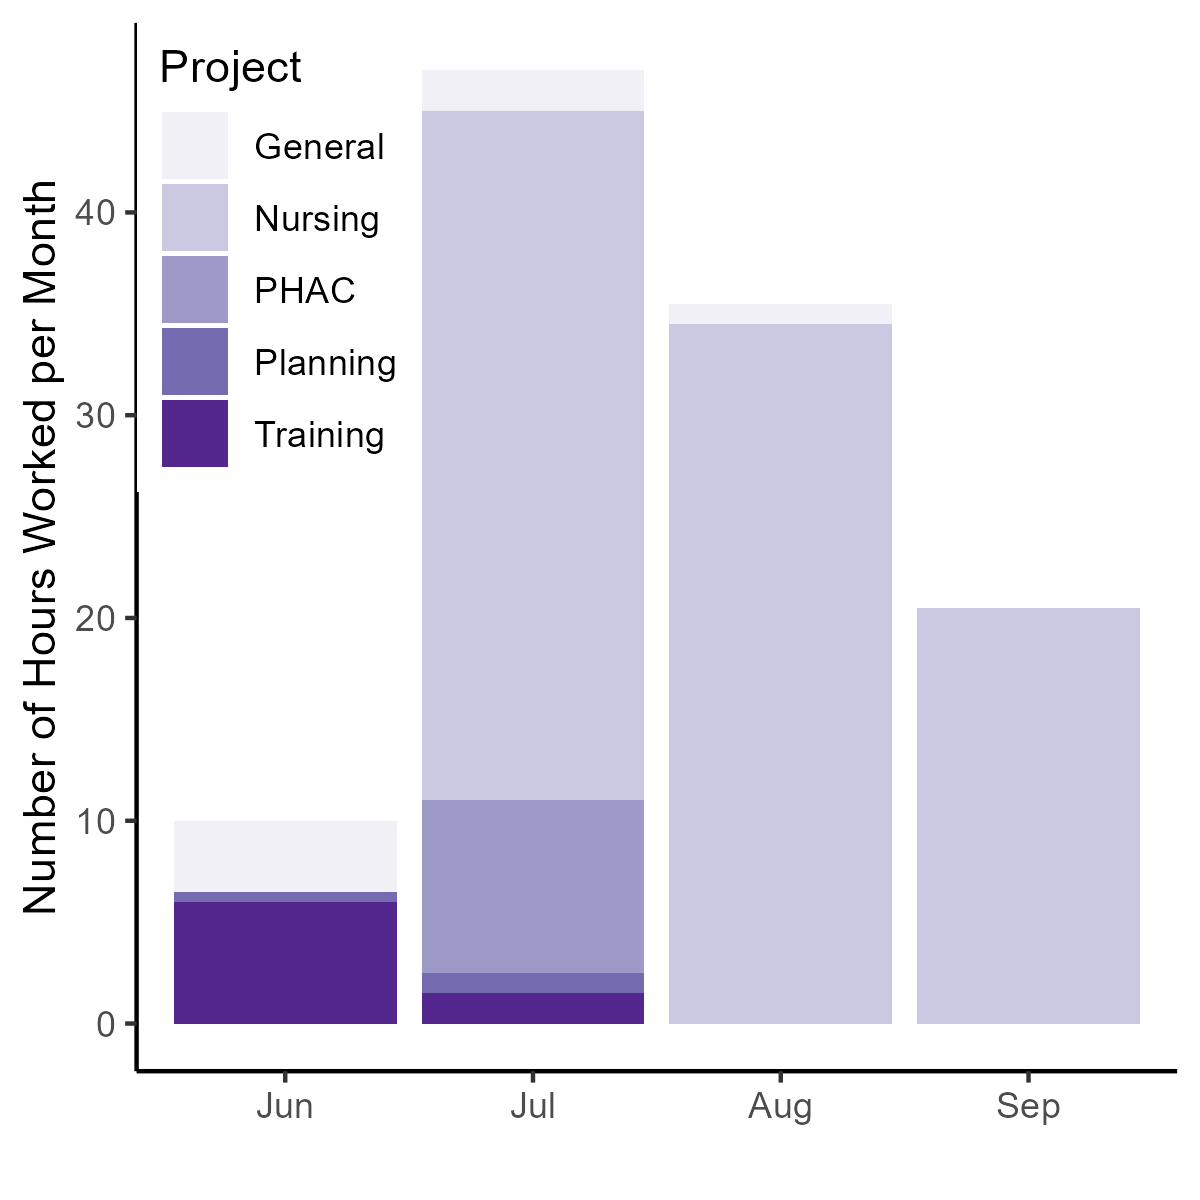
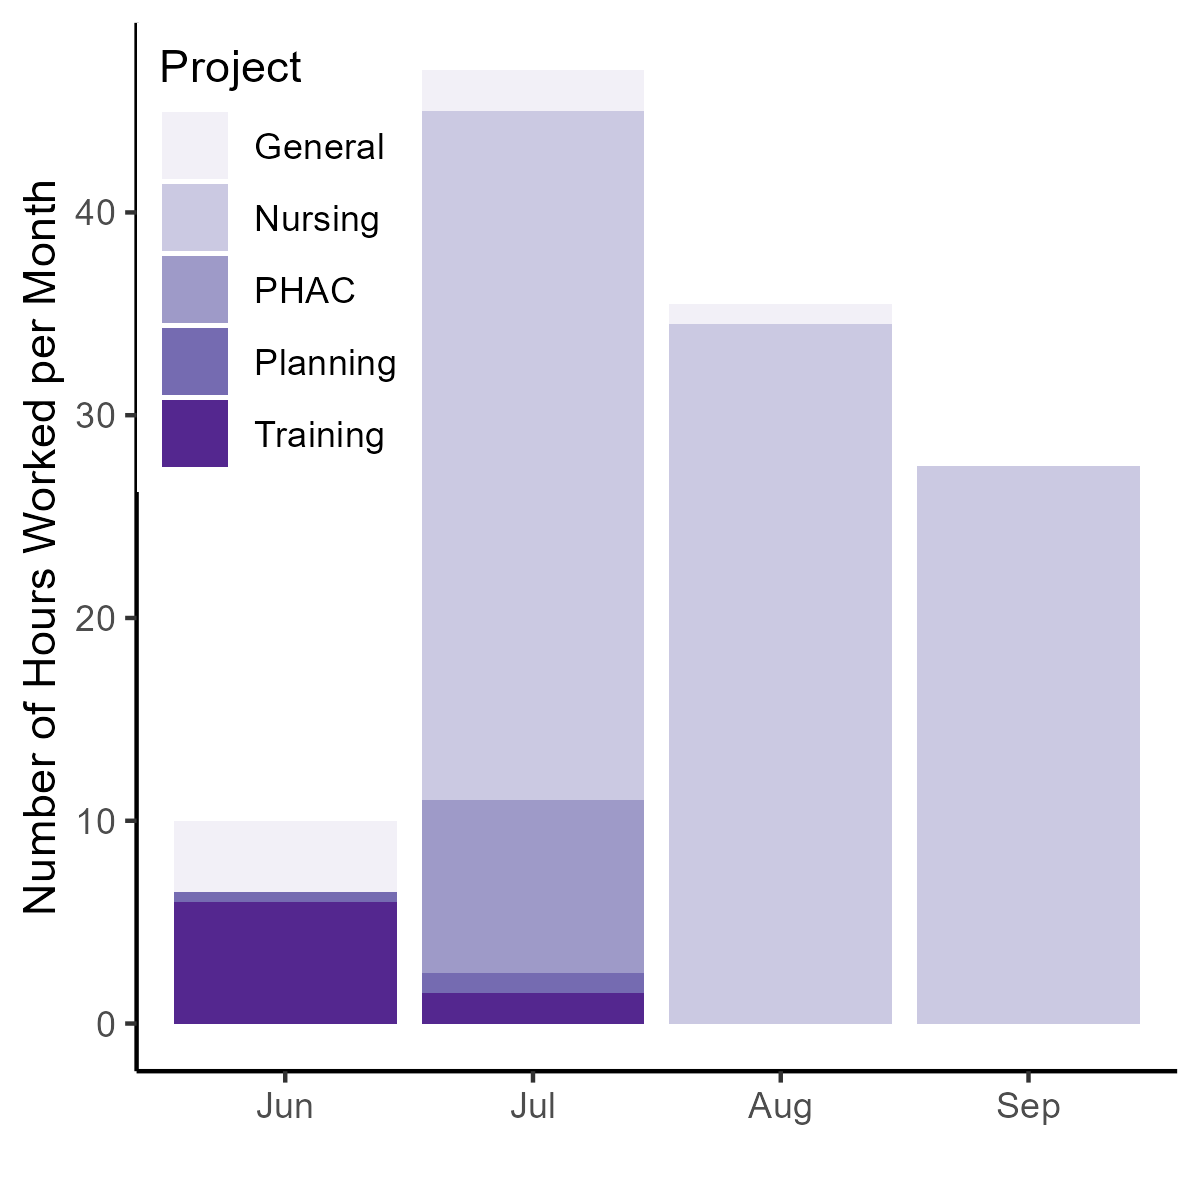
new week

Changed region(s): [[0.74, 0.37, 0.9558, 0.5242]]

diff --git a/docs/index.html b/docs/index.html
@@ -1891,11 +1891,11 @@ class="section level3">
 </div>
 <table>
 <colgroup>
+<col width="11%" />
+<col width="12%" />
 <col width="8%" />
-<col width="9%" />
+<col width="60%" />
 <col width="6%" />
-<col width="71%" />
-<col width="4%" />
 </colgroup>
 <thead>
 <tr class="header">
@@ -1908,12 +1908,26 @@ class="section level3">
 </thead>
 <tbody>
 <tr class="odd">
-<td align="left">2024-09-12</td>
+<td align="left">2024-09-16</td>
+<td align="left">Monday</td>
+<td align="left">Nursing</td>
+<td align="left">Updating Qualtrics survey</td>
+<td align="right">2.0</td>
+</tr>
+<tr class="even">
+<td align="left">2024-09-18</td>
+<td align="left">Wednesday</td>
+<td align="left">Nursing</td>
+<td align="left">Updating LOIs to improve lay language</td>
+<td align="right">1.5</td>
+</tr>
+<tr class="odd">
+<td align="left">2024-09-19</td>
 <td align="left">Thursday</td>
 <td align="left">Nursing</td>
-<td align="left">Uploading docs to WREM, filling in remaining boxes,
-listing remaining things to find / do.</td>
-<td align="right">3</td>
+<td align="left">Updating WREM docs, tweaking, checking, checking
+again..</td>
+<td align="right">3.5</td>
 </tr>
 </tbody>
 </table>
@@ -1974,11 +1988,36 @@ class="section level3">
 </thead>
 <tbody>
 <tr class="odd">
+<td align="left">2024-09-19</td>
+<td align="left">Nursing</td>
+<td align="left">Updating WREM docs, tweaking, checking, checking
+again..</td>
+<td align="right">3.5</td>
+</tr>
+<tr class="even">
+<td align="left">2024-09-18</td>
+<td align="left">Nursing</td>
+<td align="left">Updating LOIs to improve lay language</td>
+<td align="right">1.5</td>
+</tr>
+<tr class="odd">
+<td align="left">2024-09-16</td>
+<td align="left">Nursing</td>
+<td align="left">Updating Qualtrics survey</td>
+<td align="right">2.0</td>
+</tr>
+<tr class="even">
+<td align="left">2024-09-13</td>
+<td align="left">Nursing</td>
+<td align="left">Meeting with Amanda to chat about WREM app</td>
+<td align="right">1.0</td>
+</tr>
+<tr class="odd">
 <td align="left">2024-09-12</td>
 <td align="left">Nursing</td>
 <td align="left">Uploading docs to WREM, filling in remaining boxes,
 listing remaining things to find / do.</td>
-<td align="right">3.0</td>
+<td align="right">2.0</td>
 </tr>
 <tr class="even">
 <td align="left">2024-09-07</td>
